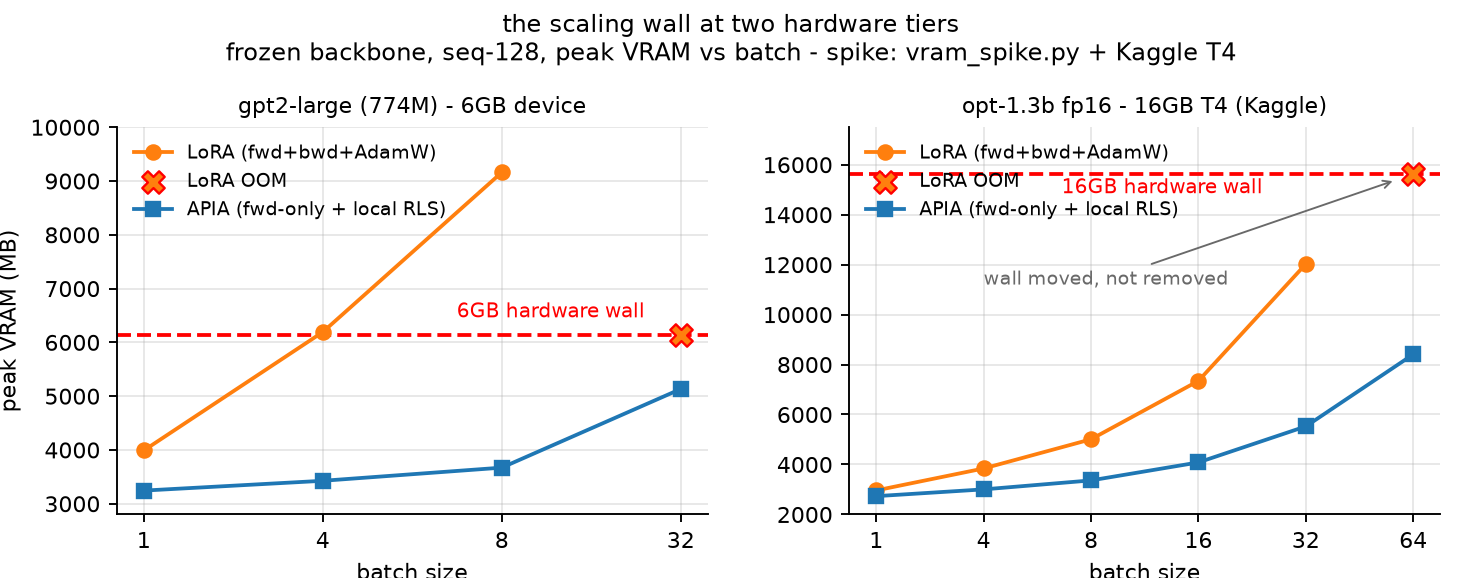
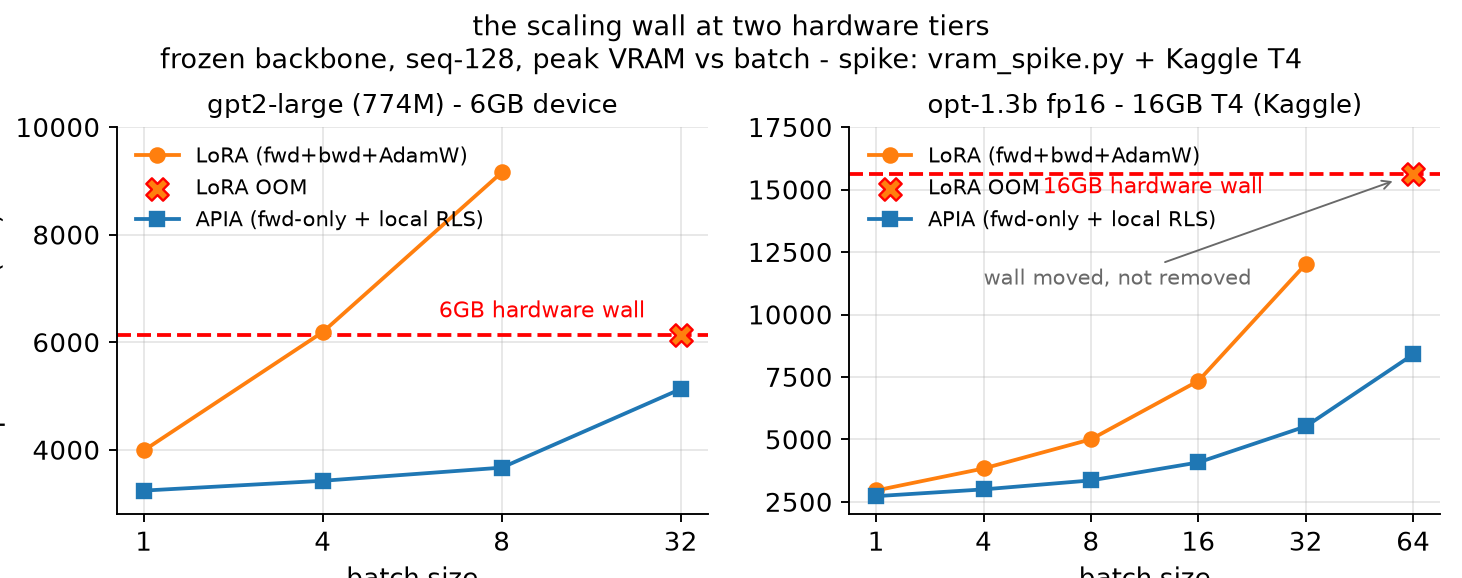
README figures: re-render for web display (bigger fonts, ~1700px)
300dpi paper exports shrank to unreadable at GitHub's ~900px container.
Re-rendered all README figures at 165-170dpi with +2pt fonts; fig3/fig5
re-plotted from cached fig_data.npz via rerender_p1_figs.py (no rerun).
Synced copies into arxiv_src/arxiv2_src.

Generated with [Devin](https://devin.ai)

diff --git a/fig1_architecture_p2.py b/fig1_architecture_p2.py
@@ -15,14 +15,14 @@ fig, ax = plt.subplots(figsize=(10.2, 5.6))
 ax.set_xlim(0, 10.8); ax.set_ylim(0, 6); ax.axis('off')
 
 
-def box(x, y, w, h, text, fc='#f5f5f5', fs=8.5, ec='k', lw=1.2, tc='k'):
+def box(x, y, w, h, text, fc='#f5f5f5', fs=10, ec='k', lw=1.2, tc='k'):
     ax.add_patch(FancyBboxPatch((x, y), w, h, boxstyle='round,pad=0.08',
                                 fc=fc, ec=ec, lw=lw))
     ax.text(x + w/2, y + h/2, text, ha='center', va='center', fontsize=fs,
             color=tc, fontweight='bold')
 
 
-def arrow(x1, y1, x2, y2, label='', fs=7.5, color='k', ls='-', lw=1.4, off=0.12):
+def arrow(x1, y1, x2, y2, label='', fs=9, color='k', ls='-', lw=1.4, off=0.12):
     ax.add_patch(FancyArrowPatch((x1, y1), (x2, y2), arrowstyle='-|>',
                  mutation_scale=14, color=color, ls=ls, lw=lw))
     if label:
@@ -44,31 +44,31 @@ arrow(6.2, 3.1, 6.5, 3.1)
 
 # no-backprop marker on the backbone boundary
 ax.text(2.95, 2.28, 'no $\\nabla$ — no backward graph',
-        fontsize=7.5, color='#c0392b', style='italic', ha='center')
+        fontsize=9.5, color='#c0392b', style='italic', ha='center')
 arrow(2.95, 2.65, 2.95, 2.42, color='#c0392b', ls='--', lw=1.2)
 
 # --- ungated fast channel ---
 box(8.3, 4.1, 2.3, 0.95, '$W_{\\mathrm{fast}}$ (block-diag RLS)\n'
     'UNGATED — update every step\nno lr (2nd-order)',
-    '#fdecea', ec='#c0392b', lw=1.8, fs=7.5)
+    '#fdecea', ec='#c0392b', lw=1.8, fs=8.8)
 arrow(8.0, 3.25, 8.6, 4.1)
 
 # --- gated slow channel ---
 box(8.3, 1.0, 2.3, 1.15, 'slots $W_{\\mathrm{slow}}^{(1..S)}$\n'
     'GATED + write-protected\nCPU-resident (~0.4 MB)', '#e9f7ef',
-    ec='#1e8449', lw=1.8, fs=7.5)
+    ec='#1e8449', lw=1.8, fs=8.8)
 arrow(8.0, 2.95, 8.6, 2.15)
 
 # gate block
 box(6.15, 0.45, 1.95, 1.7, 'gate\n\n$w_i\\propto e^{-\\eta E_i/E_{min}}$\n\n'
     'slot errors exclude\n$W_{\\mathrm{fast}}$ (self-masking)',
-    '#e9f7ef', ec='#1e8449', fs=7.0)
+    '#e9f7ef', ec='#1e8449', fs=8.2)
 arrow(8.1, 1.45, 8.3, 1.5, '')
 
 # adder / prediction
 box(8.55, 5.25, 1.9, 0.7,
     '$\\hat y_t = \\phi^\\top W_{fast} + \\beta\\phi^\\top\\sum_i w_i W_{slow}^{(i)}$',
-    '#fff7e0', fs=7.0)
+    '#fff7e0', fs=8.2)
 arrow(9.45, 5.05, 9.5, 5.25)
 arrow(10.15, 2.15, 10.3, 5.25)
 
@@ -76,7 +76,7 @@ arrow(10.15, 2.15, 10.3, 5.25)
 arrow(9.45, 4.1, 9.45, 2.18,
       'consolidate: $W_{slow}{+}{=}\\frac{1-\\gamma}{\\beta}W_{fast}$,'
       '  $W_{fast}{\\times}{=}\\gamma$',
-      color='#8e44ad', lw=2.0, off=-0.06, fs=7.0)
+      color='#8e44ad', lw=2.0, off=-0.06, fs=8.2)
 
 # write trigger annotation
 box(0.3, 0.5, 5.4, 1.3,
@@ -84,15 +84,15 @@ box(0.3, 0.5, 5.4, 1.3,
     '$e_{fast} \\leq e_{gate}\\,\\widehat{m_2}$\n'
     'target: $E_k{<}\\tau\\widehat{m_2}$ reinforce,'
     ' else argmin $c_i$ (emptiest slot)',
-    '#f0f0f0', fs=7.5)
+    '#f0f0f0', fs=9.2)
 arrow(5.7, 1.1, 8.32, 1.35, color='gray', ls=':')
 
 # predict-before-update banner
 ax.text(5.4, 5.65, 'predict-before-update, single pass, no replay buffer',
-        fontsize=8.5, color='dimgray', style='italic', ha='center')
+        fontsize=10.5, color='dimgray', style='italic', ha='center')
 
 ax.set_title('APIA on a frozen LLM: forward-only feature-space adaptation '
-             'with write-protected contextual memory', fontsize=10)
+             'with write-protected contextual memory', fontsize=12.5)
 fig.tight_layout()
-fig.savefig('fig1_architecture_p2.png', dpi=300)
+fig.savefig('fig1_architecture_p2.png', dpi=165)
 print('saved fig1_architecture_p2.png')

diff --git a/rerender_p1_figs.py b/rerender_p1_figs.py
@@ -1,0 +1,78 @@
+"""Re-render paper-1 figures for README display (bigger fonts, lower dpi).
+
+Reads cached fig_data.npz + clamp_control.json — does NOT rerun the
+experiment protocol (make_figures.py remains the data producer).
+Same plot code, README-friendly sizing.
+"""
+import json
+import numpy as np
+import matplotlib
+matplotlib.use('Agg')
+import matplotlib.pyplot as plt
+
+from continual_protocol import PHASE_LEN, WINDOW
+
+D = np.load('fig_data.npz')
+sig0 = float(D['sig0'])
+TOTAL_STEPS = 3 * PHASE_LEN
+
+plt.rcParams.update({'font.family': 'serif', 'font.size': 12,
+                     'axes.grid': True, 'grid.alpha': 0.3})
+
+# ---------------- Fig3: error trajectory ----------------
+roll = lambda e: np.convolve(e, np.ones(WINDOW) / WINDOW, 'valid') / sig0
+t = np.arange(TOTAL_STEPS - WINDOW + 1)
+fig, ax = plt.subplots(figsize=(7.5, 4.2))
+ax.semilogy(t, roll(D['traj_block']), ls='--', lw=1.8, color='0.45',
+            label='Block-RLS (baseline)')
+ax.semilogy(t, roll(D['traj_ctx']), lw=2.2, color='#1f77b4',
+            label='Block-RLS + CTX (final)')
+for x, lab, col in [(PHASE_LEN, 'sine$\\rightarrow$square', 'r'),
+                    (2 * PHASE_LEN, 'square$\\rightarrow$sine', 'g')]:
+    ax.axvline(x, color=col, ls=':', lw=1.4)
+    ax.text(x + 30, 1.5, lab, color=col, fontsize=10, rotation=90)
+ax.set_xlabel('step $t$'); ax.set_ylabel('rolling NMSE ($w$=250)')
+ax.legend(fontsize=10)
+fig.tight_layout(); fig.savefig('fig3_error_trajectory.png', dpi=170)
+plt.close(fig)
+
+# ---------------- Fig5: ablation ----------------
+cc = json.load(open('clamp_control.json'))
+bar_kinds = ['block', 'naive', 'multihead', 'mh_alloc',
+             'ctx_v0', 'ctx_v1', 'ctx_v2', 'ctx_v3']
+labels = {'block': 'Block-RLS\n(baseline)', 'naive': '+Naive\nmemory',
+          'multihead': 'MultiHead\n(Bereska)',
+          'mh_alloc': 'MultiHead\n+alloc',
+          'ctx_v0': 'CTX v0\n(self-mask)', 'ctx_v1': 'CTX v1\n(slow-err)',
+          'ctx_v2': 'CTX v2\n(+protect,norm)', 'ctx_v3': 'CTX v3\n(+count) FINAL'}
+extra = np.array(cc['mh_alloc_soft']['per_seed'])
+bar_all = bar_kinds[:4] + ['mh_alloc_soft'] + bar_kinds[4:]
+vals = {**{k: D[f'onset_{k}'] for k in bar_kinds}, 'mh_alloc_soft': extra}
+lbl = dict(labels); lbl['mh_alloc_soft'] = 'MultiHead\n+alloc+soft'
+means = [np.mean(vals[k]) for k in bar_all]
+stds = [np.std(vals[k]) for k in bar_all]
+nb = len(bar_all)
+fam = (['#d9d9d9'] * 2 + ['#ff7f0e'] * 3 +
+       ['#9ecae1', '#6baed6', '#3182bd', '#1f77b4'])
+hatch = ['', '', '//', '//', '//', '', '', '', '']
+fig, ax = plt.subplots(figsize=(10, 4.4))
+bars = ax.bar(range(nb), means, yerr=stds, capsize=5,
+              color=fam, edgecolor='k', alpha=0.9)
+for b, h in zip(bars, hatch):
+    b.set_hatch(h)
+ax.axvline(1.5, color='k', ls=':', lw=1)
+ax.axvline(4.5, color='k', ls=':', lw=1)
+ax.set_xticks(range(nb))
+ax.set_xticklabels([lbl[k] for k in bar_all], fontsize=8.5)
+ax.set_ylabel('F3-onset NMSE')
+for i, (mu, sd) in enumerate(zip(means, stds)):
+    if i:
+        ax.annotate(f'x{means[0] / mu:.2f}',
+                    (i, mu + sd + 0.02), ha='center',
+                    fontsize=10.5, fontweight='bold', color='#1f77b4')
+ax.set_ylim(0, max(np.array(means) + np.array(stds)) * 1.15)
+fig.tight_layout(); fig.savefig('fig5_ablation_bar.png', dpi=170)
+plt.close(fig)
+
+print('re-rendered fig3_error_trajectory.png + fig5_ablation_bar.png '
+      'from fig_data.npz (no experiment rerun)')

diff --git a/fig_phase2_scale.py b/fig_phase2_scale.py
@@ -25,14 +25,18 @@ def _lora(m):
     d = D[m]["lora"]
     return d if "p3_onset" in d else d["lr_1e-3"]  # headline = same lr
 
+def _lora_field(m, f):
+    e = _lora(m)
+    return e[f] if f in e else D[m]["lora"][f]
+
 lora_on = [_lora(m)["p3_onset"] for m in MODELS]
-lora_vr = [D[m]["lora"]["vram_mb"] for m in MODELS]
-lora_ms = [D[m]["lora"]["ms_per_step"] for m in MODELS]
+lora_vr = [_lora_field(m, "vram_mb") for m in MODELS]
+lora_ms = [_lora_field(m, "ms_per_step") for m in MODELS]
 tuned_on = D[MODELS[1]]["lora"]["lr_1e-4"]["p3_onset"]
 
-plt.rcParams.update({"font.family": "serif", "font.size": 10,
+plt.rcParams.update({"font.family": "serif", "font.size": 12,
                      "axes.grid": True, "grid.alpha": 0.3})
-fig, ax = plt.subplots(1, 3, figsize=(13, 3.6))
+fig, ax = plt.subplots(1, 3, figsize=(10.5, 3.8))
 
 ax[0].plot(x, apia_on, "o-", color="tab:blue", lw=2,
            label="APIA (no lr, zero retune)")
@@ -41,18 +45,18 @@ ax[0].plot(x, lora_on, "s--", color="tab:red", lw=2,
 ax[0].plot(1, tuned_on, "*", ms=14, color="tab:green",
            label="LoRA tuned (lr=1e-4)")
 ax[0].axhline(0.5, color="gray", ls=":", lw=1)
-ax[0].annotate("chance", (2.05, 0.5), fontsize=8, color="gray",
-               va="center")
+ax[0].annotate("chance", (1.97, 0.44), fontsize=10, color="gray",
+               va="center", ha="right")
 ax[0].set_ylabel("phase-3 onset error")
 ax[0].set_ylim(0, 0.6)
-ax[0].legend(fontsize=8, loc="upper left")
+ax[0].legend(fontsize=9.5, loc="upper left")
 
 ax[1].plot(x, apia_vr, "o-", color="tab:blue", lw=2, label="APIA")
 ax[1].plot(x, lora_vr, "s--", color="tab:red", lw=2, label="LoRA")
 ax[1].axhline(6144, color="k", ls=":", lw=1)
-ax[1].annotate("6 GB", (0.05, 6300), fontsize=8, color="k")
+ax[1].annotate("6 GB", (0.05, 6300), fontsize=10, color="k")
 ax[1].set_ylabel("peak VRAM (MB, batch-1)")
-ax[1].legend(fontsize=8, loc="upper left")
+ax[1].legend(fontsize=9.5, loc="upper left")
 
 ax[2].semilogy(x, apia_ms, "o-", color="tab:blue", lw=2, label="APIA")
 ax[2].semilogy(x, lora_ms, "s--", color="tab:red", lw=2,
@@ -63,5 +67,5 @@ for a in ax:
 fig.suptitle("Scale sweep on the domain-return protocol "
              "(20news A-B-A', single pass)", y=1.03)
 fig.tight_layout()
-fig.savefig("fig_phase2_scale.png", dpi=300, bbox_inches="tight")
+fig.savefig("fig_phase2_scale.png", dpi=165, bbox_inches="tight")
 print("wrote fig_phase2_scale.png")

diff --git a/fig1_architecture.py b/fig1_architecture.py
@@ -7,13 +7,13 @@ from matplotlib.patches import FancyBboxPatch, FancyArrowPatch
 fig, ax = plt.subplots(figsize=(9.5, 5.8))
 ax.set_xlim(0, 10); ax.set_ylim(0, 6); ax.axis('off')
 
-def box(x, y, w, h, text, fc='#f5f5f5', fs=8.5, ec='k', lw=1.2, tc='k'):
+def box(x, y, w, h, text, fc='#f5f5f5', fs=10, ec='k', lw=1.2, tc='k'):
     ax.add_patch(FancyBboxPatch((x, y), w, h, boxstyle='round,pad=0.08',
                                 fc=fc, ec=ec, lw=lw))
     ax.text(x + w/2, y + h/2, text, ha='center', va='center', fontsize=fs,
             color=tc, fontweight='bold')
 
-def arrow(x1, y1, x2, y2, label='', fs=7.5, color='k', ls='-', lw=1.4, off=0.12):
+def arrow(x1, y1, x2, y2, label='', fs=9, color='k', ls='-', lw=1.4, off=0.12):
     ax.add_patch(FancyArrowPatch((x1, y1), (x2, y2), arrowstyle='-|>',
                  mutation_scale=14, color=color, ls=ls, lw=lw))
     if label:
@@ -40,12 +40,12 @@ arrow(5.5, 2.85, 6.3, 2.25)
 
 # gate block
 box(8.3, 1.1, 1.5, 1.15, 'gate\n$w_i\\propto e^{-\\eta E_i/E_{min}}$',
-    '#e9f7ef', ec='#1e8449', fs=7.5)
+    '#e9f7ef', ec='#1e8449', fs=8.8)
 arrow(8.0, 1.67, 8.3, 1.67, '')
 
 # adder
 box(8.5, 3.3, 1.3, 0.7, '$\\hat y_t = \\phi^\\top W_{fast}$\n$+\\beta\\phi^\\top\\sum_i w_i W_{slow}^{(i)}$',
-    '#fff7e0', fs=7.5)
+    '#fff7e0', fs=8.8)
 arrow(8.0, 4.45, 8.75, 4.0)          # fast -> sum
 arrow(8.0, 1.95, 8.65, 3.3)          # gated -> sum
 
@@ -58,17 +58,17 @@ arrow(7.0, 4.0, 7.0, 2.28,
 box(0.3, 0.3, 4.6, 1.0,
     'decision channels (causal $\\widehat{m_2}=\\mathbb{E}[y^2]$ EMA):\n'
     'predict gate $w_i$  |  write-trigger $E_{min}\\gtrless\\tau\\widehat{m_2}$',
-    '#f0f0f0', fs=7.5)
+    '#f0f0f0', fs=9)
 arrow(4.9, 0.9, 8.45, 1.35, color='gray', ls=':')
 arrow(4.9, 0.7, 8.55, 3.28, color='gray', ls=':')
 
 # clamp intervention point (Table 6 control)
 ax.annotate('norm cap (lossy,\nTable 6 control)', (8.35, 5.35),
-            fontsize=7.5, color='#c0392b', style='italic', ha='left')
+            fontsize=9, color='#c0392b', style='italic', ha='left')
 arrow(8.5, 5.25, 7.95, 4.82, color='#c0392b', ls='--')
 
 ax.set_title('Write-protected contextual memory: ungated fast channel '
-             '+ gated slow slots', fontsize=10)
+             '+ gated slow slots', fontsize=12)
 fig.tight_layout()
-fig.savefig('fig1_architecture.png', dpi=300)
+fig.savefig('fig1_architecture.png', dpi=170)
 print('saved fig1_architecture.png')

diff --git a/fig_vram_dual.py b/fig_vram_dual.py
@@ -4,7 +4,7 @@ matplotlib.use("Agg")
 import matplotlib.pyplot as plt
 import numpy as np
 
-plt.rcParams.update({"font.size": 9.5, "axes.grid": True, "grid.alpha": .3,
+plt.rcParams.update({"font.size": 11, "axes.grid": True, "grid.alpha": .3,
                      "axes.spines.top": False, "axes.spines.right": False})
 
 R = json.load(open("spike_results.json"))
@@ -31,7 +31,7 @@ def panel(ax, B, apia, lora, wall, title, wall_label, wall_text_x, dy=320):
     ax.set_xticks(X)
     ax.set_xticklabels(B)
     ax.axhline(wall, color="red", ls="--", lw=1.6)
-    ax.text(wall_text_x, wall + dy, wall_label, color="red", fontsize=8.5,
+    ax.text(wall_text_x, wall + dy, wall_label, color="red", fontsize=9.5,
             ha="right")
     ok = lora > 0
     ax.plot(X[ok], lora[ok], "o-", color="tab:orange", lw=1.6, label="LoRA (fwd+bwd+AdamW)")
@@ -40,25 +40,25 @@ def panel(ax, B, apia, lora, wall, title, wall_label, wall_text_x, dy=320):
                    edgecolor="red", zorder=5, label="LoRA OOM")
     ax.plot(X, apia, "s-", color="tab:blue", lw=1.6, label="APIA (fwd-only + local RLS)")
     ax.set_xlabel("batch size")
-    ax.set_title(title, fontsize=9.5)
+    ax.set_title(title, fontsize=11)
 
 
 panel(axs[0], B6, A6, L6, 6144, "gpt2-large (774M) - 6GB device",
       "6GB hardware wall", wall_text_x=len(B6) - 1.2)
 axs[0].set_ylabel("peak VRAM (MB)")
 axs[0].set_ylim(2800, 10000)
-axs[0].legend(frameon=False, fontsize=8, loc="upper left")
+axs[0].legend(frameon=False, fontsize=9, loc="upper left")
 
 panel(axs[1], B16, A16, L16, 15636, "opt-1.3b fp16 - 16GB T4 (Kaggle)",
       "16GB hardware wall", wall_text_x=3.6, dy=-780)
 axs[1].set_ylim(2000, 17500)
 axs[1].annotate("wall moved, not removed", xy=(4.85, 15400), xytext=(1.0, 11200),
-                fontsize=8, color="dimgray",
+                fontsize=9, color="dimgray",
                 arrowprops=dict(arrowstyle="->", lw=.8, color="dimgray"))
-axs[1].legend(frameon=False, fontsize=8, loc="upper left")
+axs[1].legend(frameon=False, fontsize=9, loc="upper left")
 
 fig.suptitle("the scaling wall at two hardware tiers\n"
              "frozen backbone, seq-128, peak VRAM vs batch - spike: vram_spike.py + Kaggle T4",
-             fontsize=10)
+             fontsize=11.5)
 fig.savefig("fig_vram_dual.png", dpi=170)
 print("saved fig_vram_dual.png")
